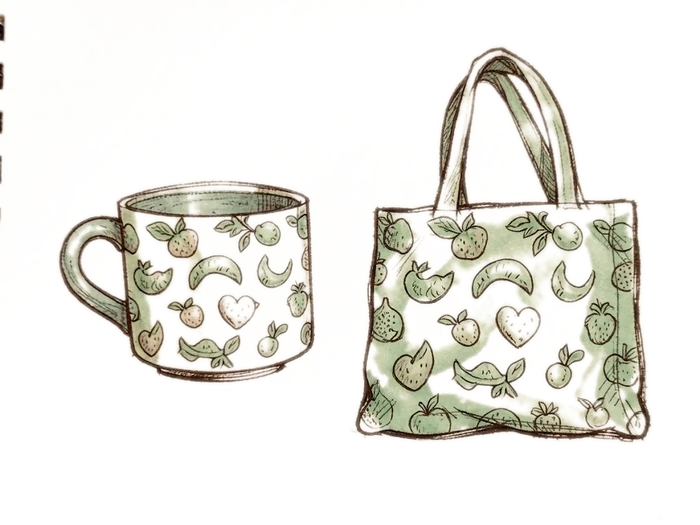
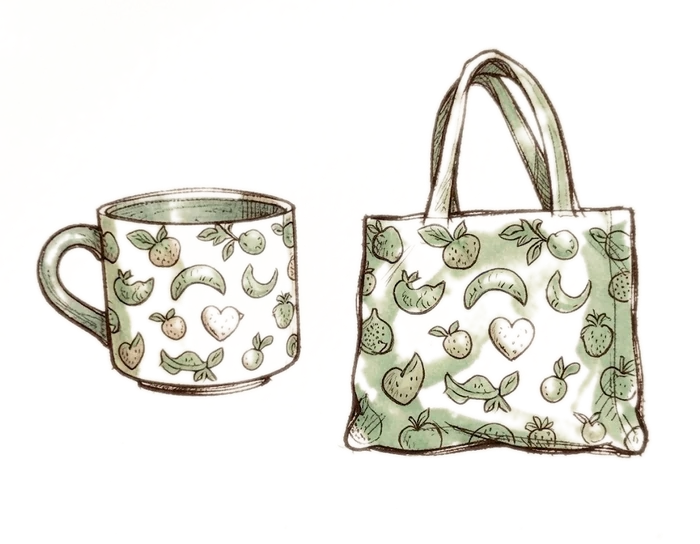
Crop the spiral notebook binding out of the Mock-up Studio illustration
Re-cut from the source with a left-edge crop before the background
removal, so the sketchbook spiral binding marks don't show anymore.

Claude-Session: https://claude.ai/code/session_01VHQYNvbsyLAtKZNN89wX6x

diff --git a/mockup-studio.html b/mockup-studio.html
@@ -51,7 +51,7 @@
         <a href="index.html#the-apps" class="back-link">back to the collection</a>
       </div>
     </div>
-    <img class="hero-illustration wiggle shadowed" src="assets/app-mockup-hero.webp" width="700" height="525" alt="Hand-drawn mug and tote bag covered in a soft green pattern" />
+    <img class="hero-illustration wiggle shadowed" src="assets/app-mockup-hero.webp" width="700" height="544" alt="Hand-drawn mug and tote bag covered in a soft green pattern" />
   </section>
 
   <section class="page-section">
